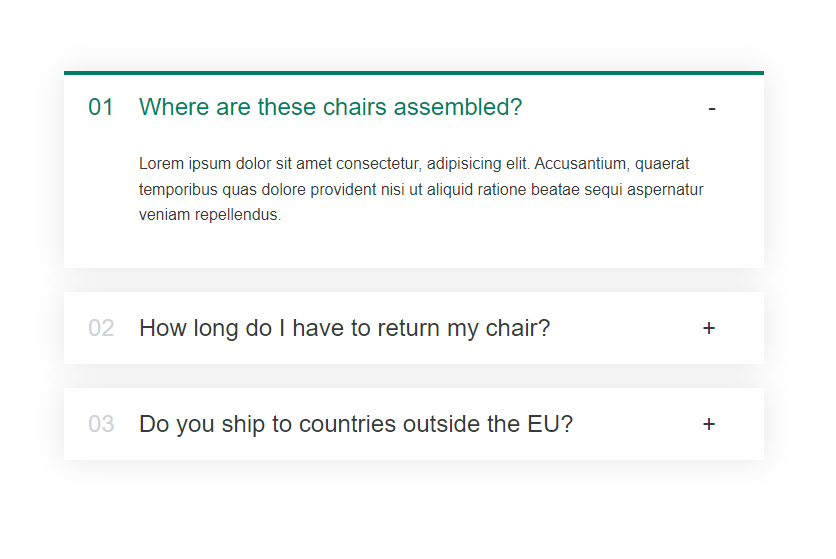
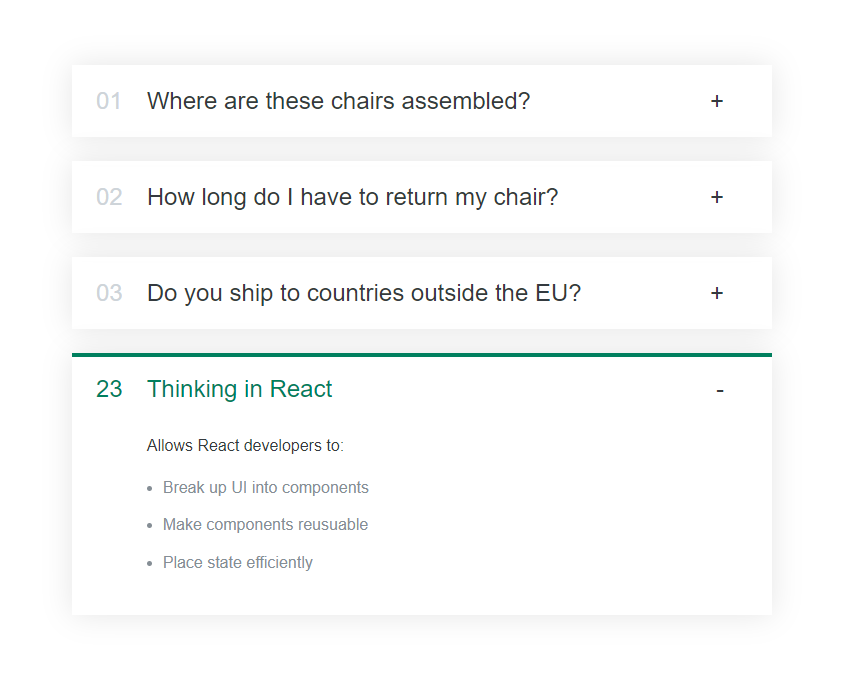
lesson10-Accordion Component - done. Adding children props

diff --git a/src/style.css b/src/style.css
@@ -1,91 +1,72 @@
 * {
+  padding: 0;
+  margin: 0;
   box-sizing: border-box;
 }
 
 body {
   font-family: sans-serif;
-  color: #333;
-}
-
-.steps {
-  width: 600px;
-  background-color: #f7f7f7;
-  border-radius: 7px;
-  padding: 25px 100px;
-  margin: 100px auto;
-}
-
-.numbers {
-  display: flex;
-  justify-content: space-between;
-}
-
-.numbers > div {
-  height: 40px;
-  aspect-ratio: 1;
-  background-color: #e7e7e7;
-  border-radius: 50%;
-  display: flex;
-  align-items: center;
-  justify-content: center;
-  font-size: 18px;
-}
-
-.numbers .active {
-  background-color: #7950f2;
-  color: #fff;
-}
-
-.message {
-  text-align: center;
-  font-size: 20px;
-  margin: 40px 0;
-  font-weight: bold;
-
-  display: flex;
-  flex-direction: column;
-  align-items: center;
-}
-
-.buttons {
-  display: flex;
-  justify-content: space-between;
-}
-
-.buttons button {
-  border: none;
-  cursor: pointer;
-  padding: 10px 15px;
-  border-radius: 100px;
-  font-size: 14px;
-  font-weight: bold;
-
-  display: flex;
-  align-items: center;
-  gap: 10px;
-}
-
-.buttons button span {
-  font-size: 16px;
+  color: #343a40;
   line-height: 1;
 }
 
-h3 {
-  margin: 0;
-  text-transform: uppercase;
+.accordion {
+  width: 700px;
+  margin: 100px auto;
+  display: flex;
+  flex-direction: column;
+  gap: 24px;
 }
 
-.close {
-  position: absolute;
-  top: 16px;
-  right: 16px;
-  border: none;
-  background: none;
+.item {
+  box-shadow: 0 0 30px rgba(0, 0, 0, 0.1);
+  padding: 20px 24px;
+  padding-right: 48px;
   cursor: pointer;
-  font-size: 40px;
-  color: inherit;
+  border-top: 4px solid #fff;
+  border-bottom: 4px solid #fff;
+
+  display: grid;
+  grid-template-columns: auto 1fr auto;
+  column-gap: 24px;
+  row-gap: 32px;
+  align-items: center;
 }
 
-.close:hover {
-  color: #7950f2;
+.number {
+  font-size: 24px;
+  font-weight: 500;
+  color: #ced4da;
+}
+
+.title,
+.icon {
+  font-size: 24px;
+  font-weight: 500;
+}
+
+.content-box {
+  grid-column: 2 / -1;
+  padding-bottom: 16px;
+  line-height: 1.6;
+}
+
+.content-box ul {
+  color: #868e96;
+  margin-left: 16px;
+  margin-top: 16px;
+
+  display: flex;
+  flex-direction: column;
+  gap: 12px;
+}
+
+/* OPEN STATE */
+.open {
+  border-top: 4px solid #087f5b;
+}
+
+.open .number,
+.open .title {
+  color: #087f5b;
 }

diff --git a/src/lesson10-Accordion Component/App-v1.js b/src/lesson10-Accordion Component/App-v1.js
@@ -25,57 +25,31 @@ export default function App() {
 }
 
 function Accordion({ data }) {
-  const [curOpen, setCurOpen] = useState(null);
-
   return (
     <div className="accordion">
       {data.map((el, i) => (
-        <AccordionItem
-          curOpen={curOpen}
-          onOpen={setCurOpen}
-          num={i}
-          title={el.title}
-          key={el.title}
-        >
-          {el.text}
-        </AccordionItem>
+        <AccordionItem num={i} title={el.title} text={el.text} key={el.title} />
       ))}
-
-      <AccordionItem
-        curOpen={curOpen}
-        onOpen={setCurOpen}
-        title="Thinking in React"
-        num={22}
-        key="Thinking in React"
-      >
-        <p>Allows React developers to:</p>
-        <ul>
-          <li>Break up UI into components</li>
-          <li>Make components reusuable</li>
-          <li>Place state efficiently</li>
-        </ul>
-      </AccordionItem>
     </div>
   );
 }
 
-function AccordionItem({ num, title, curOpen, onOpen, children }) {
-  const isOpen = num === curOpen;
+function AccordionItem({ num, title, text }) {
+  const [isOpen, setIsOpen] = useState(false);
 
   function handleToggle() {
-    onOpen(isOpen ? null : num);
+    setIsOpen((isOpen) => !isOpen);
   }
 
   return (
+    // <div className={!isOpen ? "item" : "item open"} onClick={handleToggle}>
     <div className={`item ${isOpen ? "open" : ""}`} onClick={handleToggle}>
+      {/* <span className="number">{ix < 9 ? "0" + (ix + 1) : ix + 1}</span> */}
       <p className="number">{num < 9 ? `0${num + 1}` : num + 1}</p>
       <p className="title">{title}</p>
       <p className="icon">{isOpen ? "-" : "+"}</p>
 
-      {isOpen && <div className="content-box">{children}</div>}
+      {isOpen && <div className="content-box">{text}</div>}
     </div>
   );
 }
-
-// D:\Из Торрента\The Ultimate React Course 2023 React, Redux & More\7. Thinking In React State Management
-// 92 EXERCISE #2 Accordion Component v2

diff --git a/src/lesson10-Accordion Component/App.js b/src/lesson10-Accordion Component/App.js
@@ -25,31 +25,57 @@ export default function App() {
 }
 
 function Accordion({ data }) {
+  const [curOpen, setCurOpen] = useState(null);
+
   return (
     <div className="accordion">
       {data.map((el, i) => (
-        <AccordionItem num={i} title={el.title} text={el.text} key={el.title} />
+        <AccordionItem
+          curOpen={curOpen}
+          onOpen={setCurOpen}
+          num={i}
+          title={el.title}
+          key={el.title}
+        >
+          {el.text}
+        </AccordionItem>
       ))}
+
+      <AccordionItem
+        curOpen={curOpen}
+        onOpen={setCurOpen}
+        title="Thinking in React"
+        num={22}
+        key="Thinking in React"
+      >
+        <p>Allows React developers to:</p>
+        <ul>
+          <li>Break up UI into components</li>
+          <li>Make components reusuable</li>
+          <li>Place state efficiently</li>
+        </ul>
+      </AccordionItem>
     </div>
   );
 }
 
-function AccordionItem({ num, title, text }) {
-  const [isOpen, setIsOpen] = useState(false);
+function AccordionItem({ num, title, curOpen, onOpen, children }) {
+  const isOpen = num === curOpen;
 
   function handleToggle() {
-    setIsOpen((isOpen) => !isOpen);
+    onOpen(isOpen ? null : num);
   }
 
   return (
-    // <div className={!isOpen ? "item" : "item open"} onClick={handleToggle}>
     <div className={`item ${isOpen ? "open" : ""}`} onClick={handleToggle}>
-      {/* <span className="number">{ix < 9 ? "0" + (ix + 1) : ix + 1}</span> */}
       <p className="number">{num < 9 ? `0${num + 1}` : num + 1}</p>
       <p className="title">{title}</p>
       <p className="icon">{isOpen ? "-" : "+"}</p>
 
-      {isOpen && <div className="content-box">{text}</div>}
+      {isOpen && <div className="content-box">{children}</div>}
     </div>
   );
 }
+
+// D:\Из Торрента\The Ultimate React Course 2023 React, Redux & More\7. Thinking In React State Management
+// 92 EXERCISE #2 Accordion Component v2
